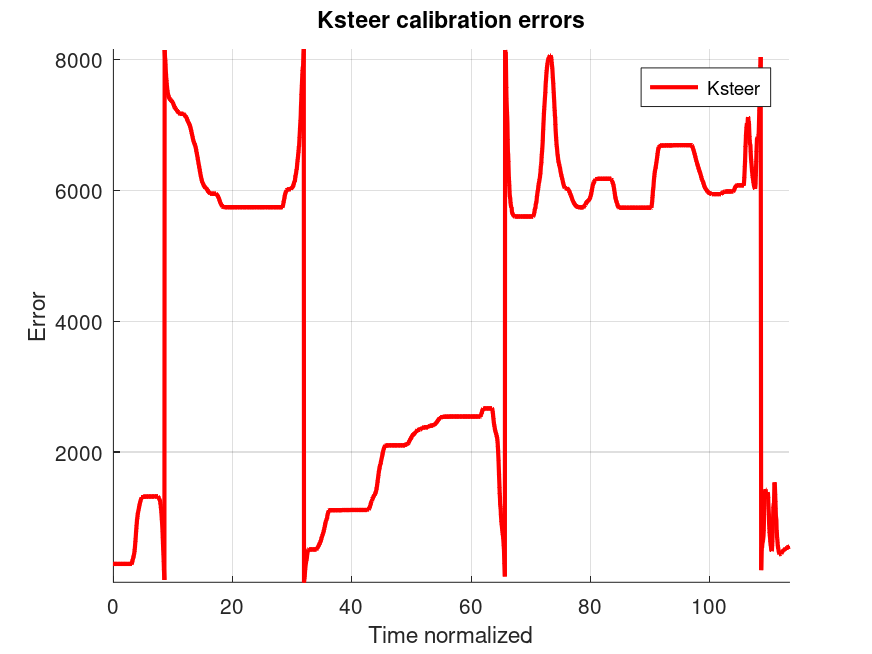
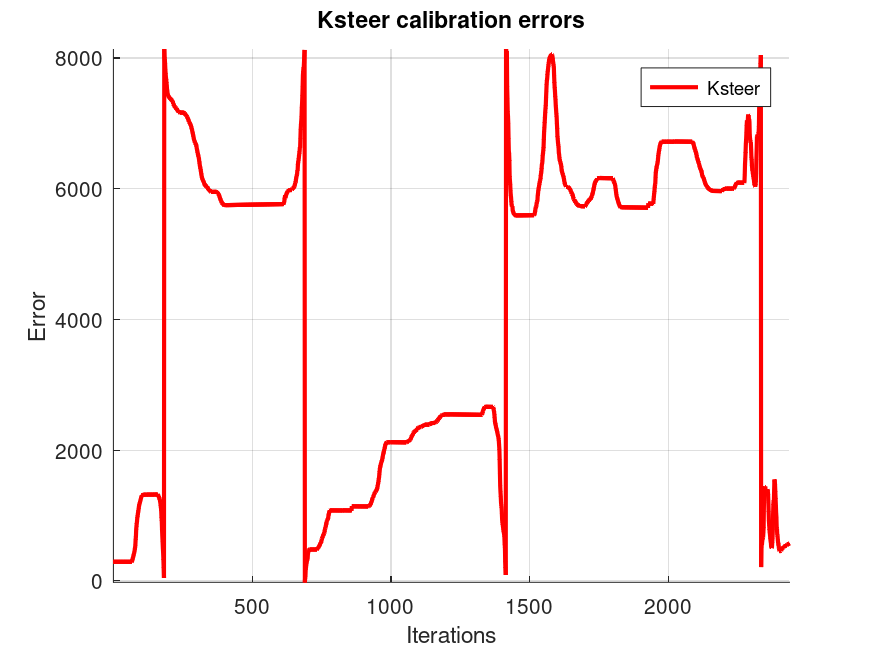
Updated on calibration functions and how to save the files

diff --git a/calibration/calibration.m b/calibration/calibration.m
@@ -64,13 +64,18 @@ function plot_sensor_trajectory(pose_sensor, model_pose, tracker_pose, moving, h
     end
 
   else
+    name_file = "./output/trajectory_sensor.png";
+    if exist(name_file, "file")
+        delete(name_file);
+    end
+
     plot(pose_sensor(:, 1), pose_sensor(:, 2), 'r-', 'linewidth', 2);
     plot(model_pose(:, 1), model_pose(:, 2), 'k-', 'linewidth', 2);
     plot(tracker_pose(:, 1), tracker_pose(:, 2), 'b-', 'linewidth', 2);
 
     legend('Sensor', 'Odometry', 'Tracker');
     drawnow;
-    print(h, "./output/trajectory_sensor.png");
+    saveas(h, name_file);
   end
     
   waitfor(h);
@@ -114,13 +119,18 @@ function plot_sensor_error(pose_sensor, tracker_pose, moving, h, time)
     end
 
   else
+    name_file = "./output/error_trajectory_sensor.png";
+    if exist(name_file, "file")
+        delete(name_file);
+    end
+
     plot(pose_sensor(:, 1), pose_sensor(:, 2), 'r-', 'linewidth', 2);
     plot(tracker_pose(:, 1), tracker_pose(:, 2), 'b-', 'linewidth', 2);
     plot(error_sensor(:, 1), error_sensor(:, 2), 'g-', 'linewidth', 2);
 
     legend('Sensor', 'Tracker', 'Sensor error trajectory');
     drawnow;
-    print(h, "./output/error_trajectory_sensor.png");
+    saveas(h, name_file);
   end
 
   printf('The sensor error mean is %f on x and %f on y\n', mean(error_sensor(:, 1)), mean(error_sensor(:, 2)));
@@ -144,30 +154,40 @@ function ksteeer_ktraction_calibrated = ksteeer_ktraction_calibration(Ksteer_Ktr
 	end
 
   time_norm = time - time(1);
+  name_file = "./output/Ksteer_calibration_errors.png";
+  if exist(name_file, "file")
+      delete(name_file);
+  end
+
   hold on;
   grid on;
   title('Ksteer calibration errors');
-  xlabel('Time normalized');
+  xlabel('Iterations');
   ylabel('Error');
-  xlim([min(time_norm(:, 1)) max(time_norm(:, 1))]);
+  xlim([1 size(Z_ticks_pose, 1)]);
   ylim([min(errors(:, 1)), max(errors(:, 1))]);
-  plot(time_norm(:, 1), errors(:, 1), 'r-', 'linewidth', 2);
+  plot(1:size(Z_ticks_pose, 1), errors(:, 1), 'r-', 'linewidth', 2);
   legend('Ksteer');
   drawnow;
-  print(h, "./output/Ksteer_calibration_errors.png");
+  saveas(h, name_file);
   waitfor(h);
+
+  name_file = "./output/Ktraction_calibration_errors.png";
+  if exist(name_file, "file")
+      delete(name_file);
+  end
 
   hold on;
   grid on;
   title('Ktraction calibration errors');
-  xlabel('Time normalized');
+  xlabel('Iterations');
   ylabel('Error');
-  xlim([min(time_norm(:, 1)) max(time_norm(:, 1))]);
+  xlim([1 size(Z_ticks_pose, 1)]);
   ylim([min(errors(:, 2)), max(errors(:, 2))]);
-  plot(time_norm(:, 1), errors(:, 2), 'b-', 'linewidth', 2);
+  plot(1:size(Z_ticks_pose, 1), errors(:, 2), 'b-', 'linewidth', 2);
   legend('Ktraction');
   drawnow;
-  print(h, "./output/Ktraction_calibration_errors.png");
+  saveas(h, name_file);
   waitfor(h);
 
 	delta_Ksteer_Ktraction = -H\b;
@@ -189,12 +209,14 @@ endfunction
 
 function Ktraction_error = Ktraction_error(i, Ksteer_Ktraction, Z_ticks_pose, delta_time)
   Ktraction_ticks = Z_ticks_pose(i, 2);
-  model_pose = Z_ticks_pose(i, 3:4);
-  tracker_pose = Z_ticks_pose(i, 6:7);
-  diff_pose = sqrt((tracker_pose(1) - model_pose(1))^2 + (tracker_pose(2) - model_pose(2))^2);
-  
-  meters = diff_pose/delta_time(i);
-  Ktraction_error = Ktraction_ticks - Ksteer_Ktraction*meters;
+  tracker_pose = Z_ticks_pose(:, 6:7);
+  if i < size(Z_ticks_pose, 1)
+    diff_pose = sqrt((tracker_pose(i+1, 1) - tracker_pose(i, 1))^2 + (tracker_pose(i+1, 2) - tracker_pose(i, 2))^2);
+  else
+    diff_pose = 0;
+  end
+
+  Ktraction_error = Ktraction_ticks - Ksteer_Ktraction*diff_pose;
 endfunction
 
 function J = jacobian_Ksteer_Ktraction(i, Z_ticks_pose, delta_time)
@@ -228,30 +250,41 @@ function axis_length_steer_offset_calibrated = axis_length_steer_offset_calibrat
 	end
 
   time_norm = time - time(1);
+
+  name_file = "./output/Axis_length_calibration_errors.png";
+  if exist(name_file, "file")
+      delete(name_file);
+  end
+
   hold on;
   grid on;
   title('Axis length calibration errors');
-  xlabel('Time normalized');
+  xlabel('Iterations');
   ylabel('Error');
-  xlim([min(time_norm(:, 1)) max(time_norm(:, 1))]);
+  xlim([1 size(Z_pose, 1)]);
   ylim([min(errors(:, 1)), max(errors(:, 1))]);
-  plot(time_norm(:, 1), errors(:, 1), 'r-', 'linewidth', 2);
+  plot(1:size(Z_pose, 1), errors(:, 1), 'r-', 'linewidth', 2);
   legend('Axis length');
   drawnow;
-  print(h, "./output/Axis_length_calibration_errors.png");
+  saveas(h, name_file);
   waitfor(h);
+
+  name_file = "./output/Steer_offset_calibration_errors.png";
+  if exist(name_file, "file")
+      delete(name_file);
+  end
 
   hold on;
   grid on;
   title('Steer offset calibration errors');
-  xlabel('Time normalized');
+  xlabel('Iterations');
   ylabel('Error');
-  xlim([min(time_norm(:, 1)) max(time_norm(:, 1))]);
+  xlim([1 size(Z_pose, 1)]);
   ylim([min(errors(:, 2)), max(errors(:, 2))]);
-  plot(time_norm(:, 1), errors(:, 2), 'b-', 'linewidth', 2);
+  plot(1:size(Z_pose, 1), errors(:, 2), 'b-', 'linewidth', 2);
   legend('Steer offset');
   drawnow;
-  print(h, "./output/Steer_offset_calibration_errors.png");
+  saveas(h, name_file);
   waitfor(h);
 
 	delta_axis_length_steer_offset = -H\b;

diff --git a/main.m b/main.m
@@ -52,7 +52,7 @@ plot_sensor_error(pose_sensor, tracker_pose, moving, h, time);
 
 #The kinematic parameters: Ksteer and Ktraction
 disp('Calibration of: Ksteer and Ktraction');
-Ksteer_Ktraction = [Ksteer, Ktraction];
+Ksteer_Ktraction = [1/Ksteer, 1/Ktraction];
 Z_ticks_pose = [ticks(:, 1:2), model_pose(:, 1:3), tracker_pose(:, 1:3)];
 Ksteer_Ktraction_calibrated = ksteeer_ktraction_calibration(Ksteer_Ktraction, Z_ticks_pose, time, h);
 disp(Ksteer_Ktraction_calibrated);
